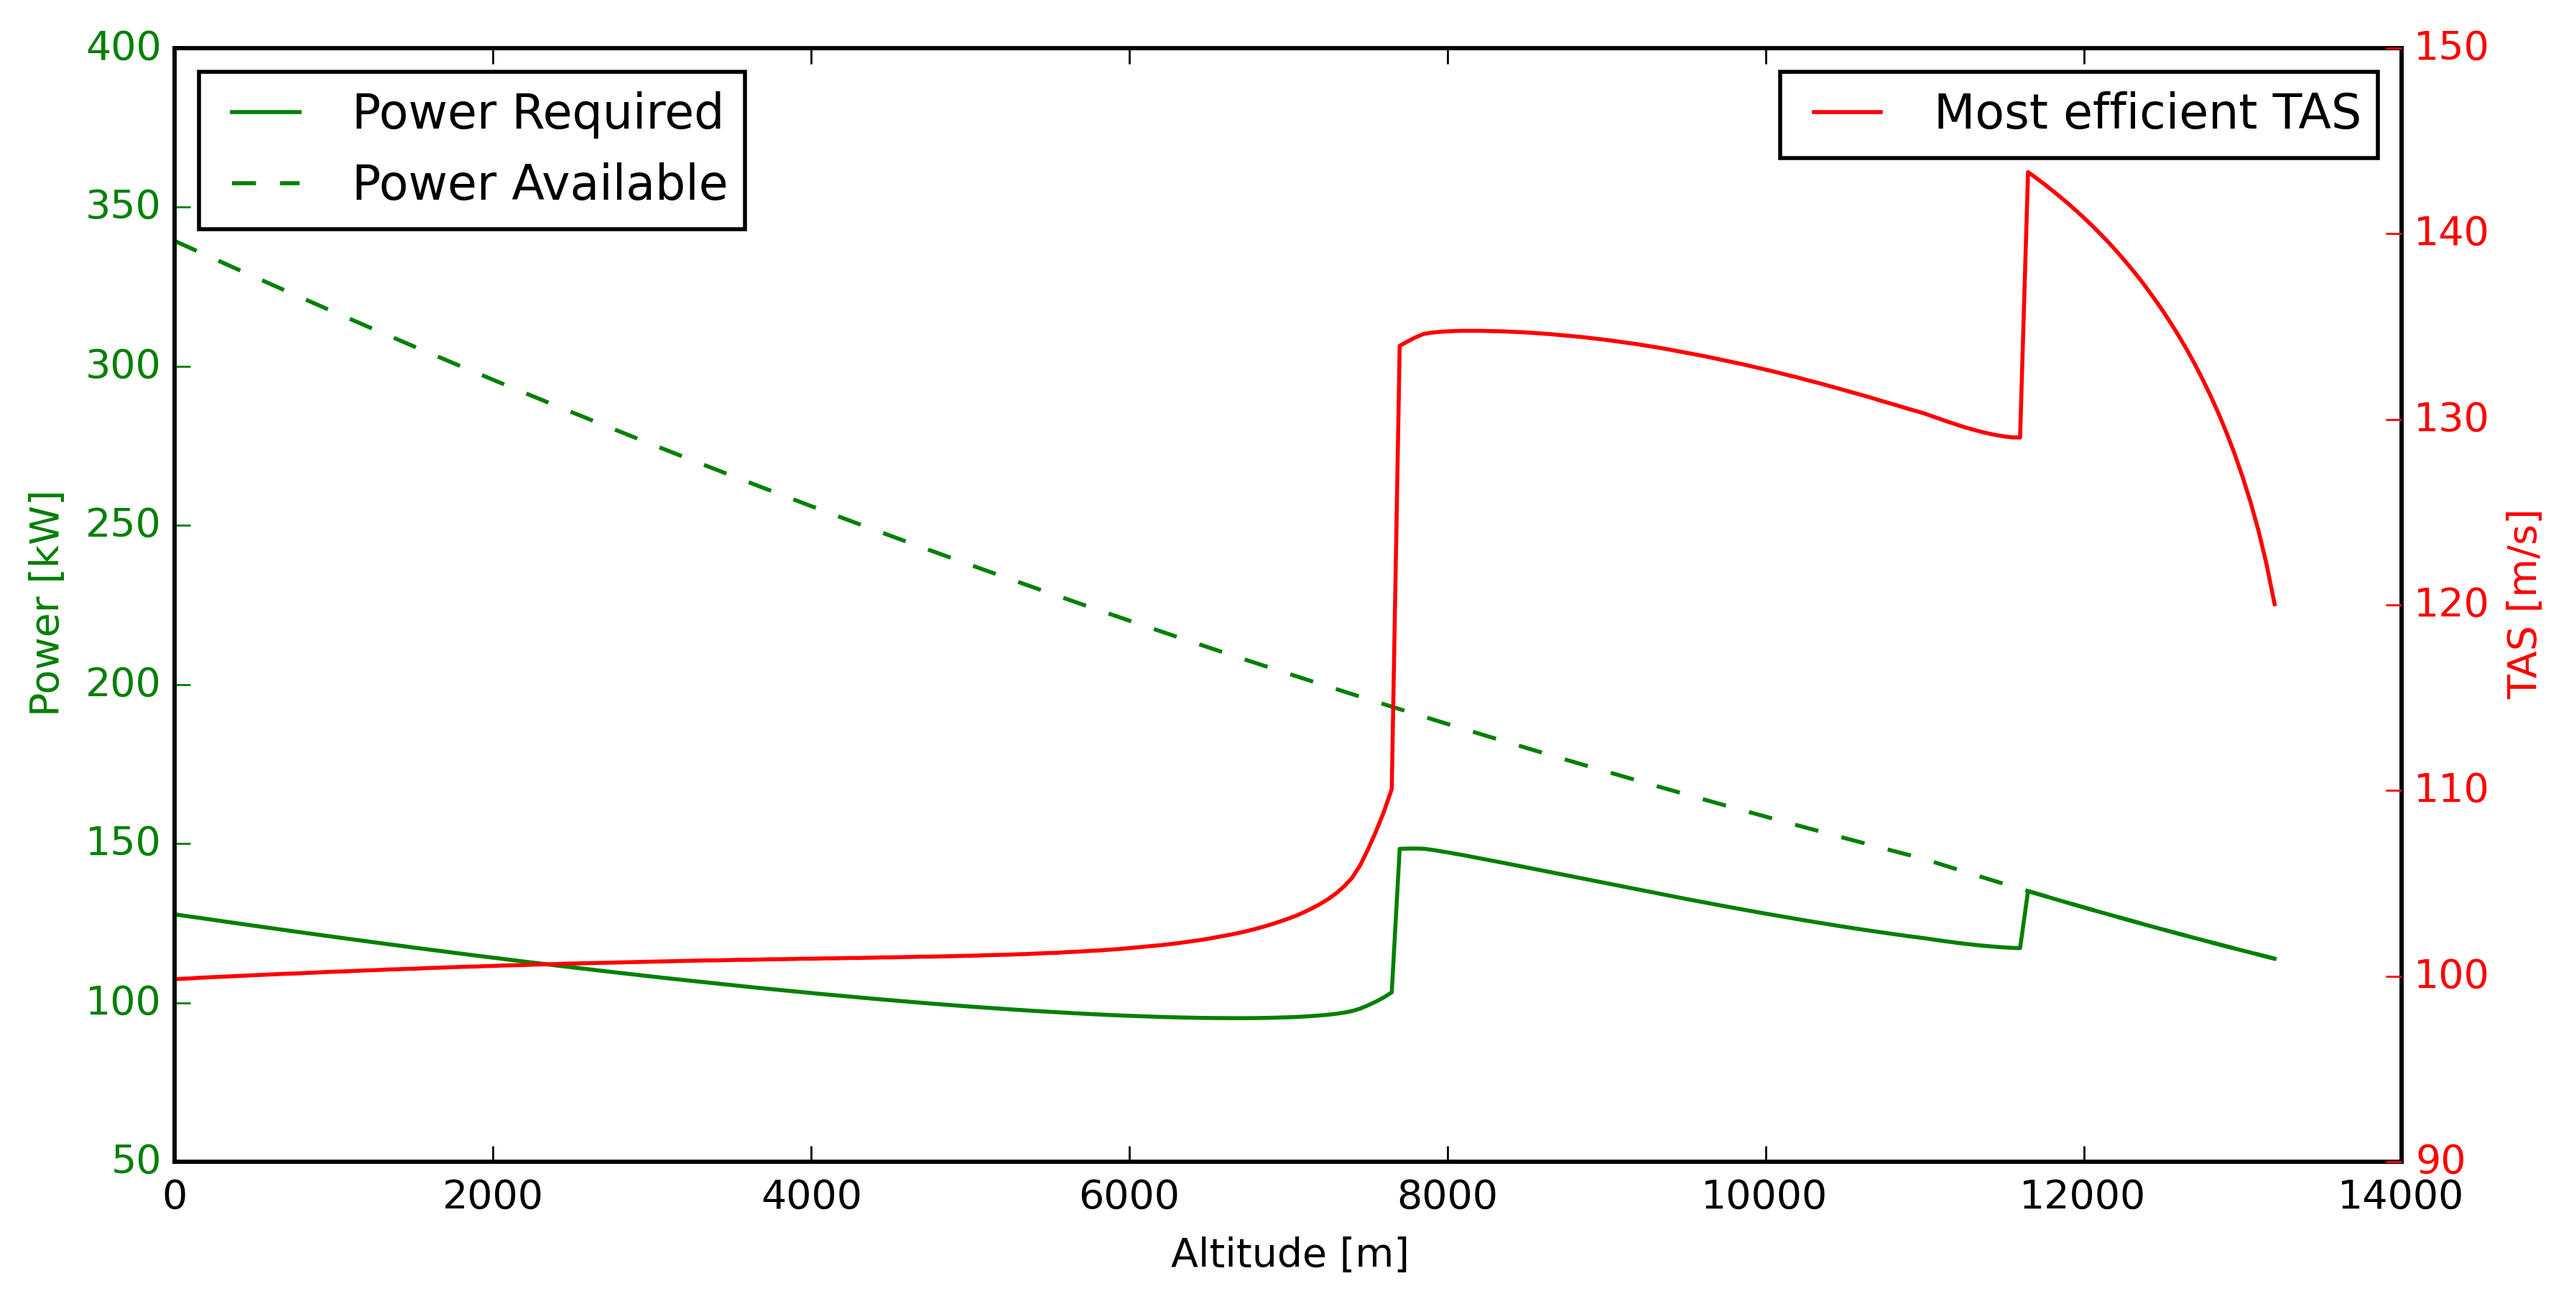
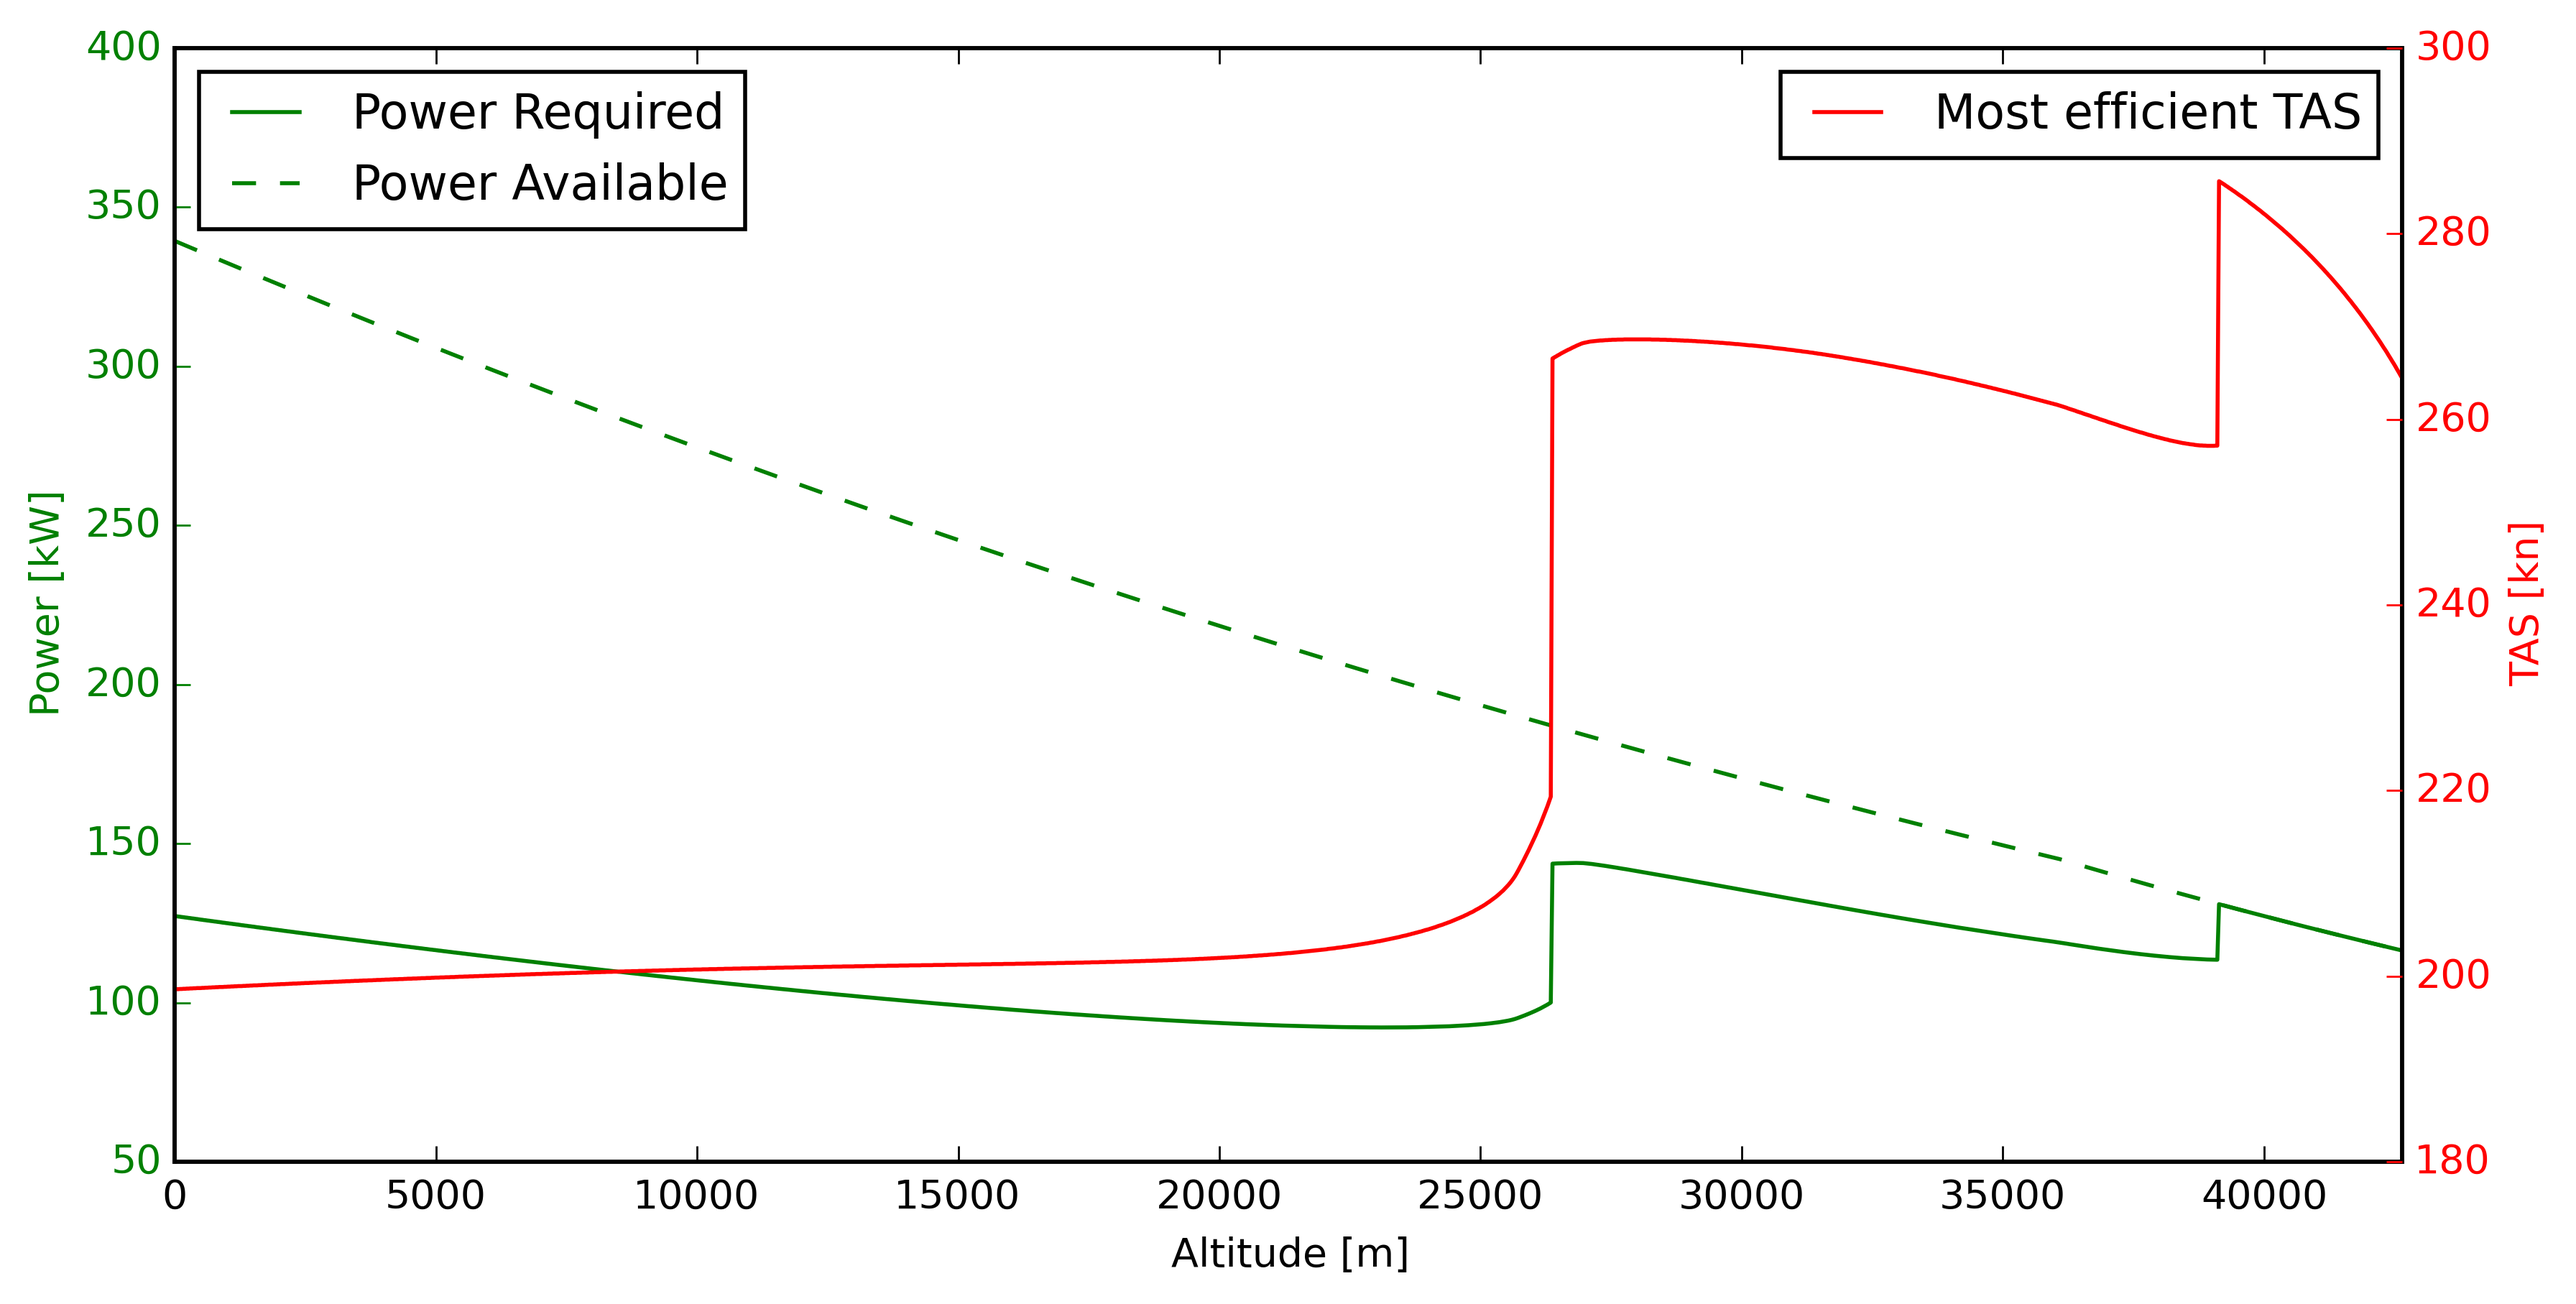
a

diff --git a/FPP/CruiseRange.py b/FPP/CruiseRange.py
@@ -62,9 +62,9 @@ h_cruise = 9000
 
 ###################################################################################################
 def calcPowerReq(W,V,S,h): # Calc Power Required [W] in steady cruise conditions for one or multiple TAS. Weight in Newton.
-    CD0 = 0.0115
+    CD0 = 0.011125
     A = 7.35
-    e = 0.6
+    e = 0.583
     rho = ISA.Dens(h)
     CL = W / (0.5*rho*V**2*S)
     CD = CD0 + CL**2 / (np.pi*A*e) # 0.020 + 0.05236 * (CL - 0.2)**2 #calcCD(CL,V) #########!!!!!!!! drag polar from aero
@@ -198,7 +198,7 @@ def calcPowerCruise(W_cruise,V_array,S,h_cruise): # Calc Power Required for most
     return PowerCruise_eff, V_Cruise_eff, LD_Cruise_eff, rho_Cruise, PowerAva, cp_Cruise_eff # have to include engine efficiency at different speeds !!!!!!!!!!!!
 
 
-#PowerReq, LD, rho_Cruise = calcPowerReq(W_cruise,V_array,S,6000)
+#PowerReq, LD, rho_Cruise = calcPowerReq(W_cruise,V_array,S,11800)
 #PowerAva = calcPowerAva(h_cruise,rho_Cruise)
 #where = np.where(PowerReq < PowerAva)
 #PowerReq = PowerReq[where]
@@ -213,7 +213,7 @@ def calcPowerCruise(W_cruise,V_array,S,h_cruise): # Calc Power Required for most
 #plt.plot(V_array,LD)
 #plt.show()
 #
-#plt.plot(V_array,cp)
+#plt.plot(V_array,1./cp)
 #plt.show()
 #
 #
@@ -251,12 +251,12 @@ def calcPowerCruise(W_cruise,V_array,S,h_cruise): # Calc Power Required for most
 
 
 def calcAltOpt(W_cruise,V_array,S):
-    h_max_an = 13200
+    h_max_an = 13000
     PowerCruise_alt = []
     V_Cruise_alt = []
     cp_Cruise_alt = []
     PowerAva_alt = []
-    h_acc = 50
+    h_acc = 10
     h_cruise = np.arange(0,h_max_an+h_acc,h_acc)
     for h in h_cruise:
         PowerCruise_eff, V_Cruise_eff, LD_Cruise_eff, rho_Cruise, PowerAva, cp_Cruise_eff = calcPowerCruise(W_cruise,V_array,S,h)
@@ -291,7 +291,7 @@ def calcAltOpt(W_cruise,V_array,S):
 #    PowerSetting = PowerCruise_alt[0:where] / PowerAva_alt[0:where]
 #    cp_func = calcCP()
 #    cp = cp_func(PowerSetting)
-    kilometrage = V_Cruise_alt / (PowerCruise_alt * cp_Cruise_alt) * 0.001
+    kilometrage = V_Cruise_alt / (PowerCruise_alt * cp_Cruise_alt / 0.82) * 0.001
     
 
 #    plt.plot(h_cruise,cp_Cruise_alt)
@@ -311,30 +311,32 @@ def calcAltOpt(W_cruise,V_array,S):
         os.makedirs(directory)
     #### Plot altitude vs power req ################
     fig, ax1 = plt.subplots(figsize=(10,5))
-    ax1.plot(h_cruise,PowerCruise_alt*0.001, color='green', label='Power Required')
-    ax1.plot(h_cruise,PowerAva_alt*0.001, color='green', linestyle='dashed', label='Power Available')
+    ax1.plot(h_cruise/0.3048,PowerCruise_alt*0.001, color='green', label='Power Required')
+    ax1.plot(h_cruise/0.3048,PowerAva_alt*0.001, color='green', linestyle='dashed', label='Power Available')
 #    ax1.plot(h_max,PowerCruise_alt[where]*0.001,color='black',marker='D',label='Maximum Altitude ('+str(h_max)+' m)')
-    ax1.set_xlabel('Altitude [m]')
+    ax1.set_xlabel('Altitude [ft]')
     ax1.set_ylabel('Power [kW]', color='g')
-#    ax1.set_xlim()
+    ax1.set_xlim(0,h_max_an/0.3048)
     ax1.set_ylim(50,400)
     ax1.tick_params('y', colors='g')
     plt.legend(loc=2)
     
     ax2 = ax1.twinx()
-    ax2.plot(h_cruise,V_Cruise_alt,color='red',label='Most efficient TAS')
-    ax2.set_ylabel('TAS [m/s]', color='r')
-#    ax2.set_xlim()
-#    ax2.set_ylim()
+    ax2.plot(h_cruise/0.3048,V_Cruise_alt*1.9438,color='red',label='Most efficient TAS')
+    ax2.set_ylabel('TAS [kn]', color='r')
+    ax2.set_xlim(0,h_max_an/0.3048)
+    ax2.set_ylim(180,300)
     ax2.tick_params('y', colors='r')
     plt.legend()
     plt.savefig(directory + '\AltMax.png', format='png', bbox_inches='tight', dpi=400)
     plt.show()
     #############################################
     #### Plot metrage vs alt ###########################################
-    plt.plot(h_cruise,kilometrage*0.804)
-    plt.xlabel('Altitude [m]')
+    plt.plot(h_cruise/0.3048,kilometrage*0.804)
+    plt.xlabel('Altitude [ft]')
     plt.ylabel('Fuel Efficiency [km/L]')
+    plt.xlim(0,h_max_an/0.3048)
+#    plt.ylim(4,9.5)
     plt.savefig(directory + '\Mileage.png', format='png', bbox_inches='tight', dpi=400)
     plt.show()
     return PowerCruise_alt, PowerAva_alt, kilometrage
@@ -436,7 +438,7 @@ def calcCruise(MTOW,OEW,Vfuelmax,PL,S,R_req,V_acc): # Payload [kg], speed analys
 #    OEW = 950 # [kg]
     Mfuelmax = Vfuelmax * 804 # Maximum fuel tank capacity [kg]
 #    S = 20 # Wing surface [m^2]
-    prop_eff = 0.9
+    prop_eff = 0.82
     cp = 1.04302E-7 # [kg/J] used for loiter phase only
     E = 45*60 # Required endurance / Loiter duration [s]
     h_cruise = 25000 * 0.3048 # Cruise altitude [m]
@@ -445,7 +447,7 @@ def calcCruise(MTOW,OEW,Vfuelmax,PL,S,R_req,V_acc): # Payload [kg], speed analys
     Mff_start = 0.965 # 0.990*0.995*0.995*0.985 # Fuel fraction from start to cruise altitude
     Mff_end = 0.98 # 0.985*0.995 # Fuel fraction from end loiter phase to end flight
     V_array = np.arange(10,160,V_acc) # Set range and accuracy of speed analysis [m/s] !!!!!!!
-    V_Cruise_spec = 123.47 # 92.6 # Specified cruise speed [m/s]
+    V_Cruise_spec = 128.6 # 92.6 # Specified cruise speed [m/s]
     
     W_loiter = ((OEW + PL) / Mff_end) * g * 1.005 # Weight at end of loiter phase [kg], multiplied by some factor
     PowerLoiter, V_Loiter, LD_Loiter = calcPowerLoiter(W_loiter,V_array,S,h_loiter)
@@ -485,7 +487,7 @@ def calcCruise(MTOW,OEW,Vfuelmax,PL,S,R_req,V_acc): # Payload [kg], speed analys
 #        PowerCruise, V_Cruise, LD_Cruise = calcPowerCruise(W,rho,V,S)
 #        R += (prop_eff * LD_Cruise / (g*cp) ) * np.log(M_cruise[i] / M_cruise[i+1])
     PowerLoiter, V_Loiter, LD_Loiter = calcPowerLoiter(W_cruise,V_array,S,h_cruise) # For plot
-    return R_eff, R_spec, R_Vmax, V_Cruise_eff, V_Cruise_spec, V_max, PowerReq, PowerAva, PowerCruise_spec, V_min, V_Loiter, V_array, MTOW_req, Fuel_req
+    return R_eff, R_spec, R_Vmax, V_Cruise_eff, V_Cruise_spec, V_max, PowerReq, PowerAva, PowerCruise_spec, V_min, V_Loiter, V_array, MTOW_req, Fuel_req, W_cruise
 
 ########################################################################################################
 
@@ -502,18 +504,20 @@ def CruisePlots(MTOW,OEW,Vfuelmax,S,V_acc):
         os.makedirs(directory)
     
     ###### Power required vs Power available graph ###
-    R_eff, R_spec, R_Vmax, V_Cruise_eff, V_Cruise_spec, V_max, PowerReq, PowerAva, PowerCruise_spec, V_min, V_Loiter, V_array, MTOW_req, Fuel_req = calcCruise(MTOW,OEW,Vfuelmax,444,S,R_req,V_acc)
+    R_eff, R_spec, R_Vmax, V_Cruise_eff, V_Cruise_spec, V_max, PowerReq, PowerAva, PowerCruise_spec, V_min, V_Loiter, V_array, MTOW_req, Fuel_req, W_cruise = calcCruise(MTOW,OEW,Vfuelmax,444,S,R_req,V_acc)
     plt.figure(figsize=(10,5))
-    plt.plot(V_array, PowerReq*0.001, label='Power Required')
-    plt.plot(V_array, PowerAva*0.001, linestyle='dashed', label='Power Available')
-    plt.plot(V_min, PowerReq[np.where(V_array == V_min)]*0.001, marker='v', label='V_min ('+str(round(V_min,1))+' m/s, '+str(int(round(PowerReq[np.where(V_array == V_min)]*0.001,0)))+' kW)' )
-    plt.plot(V_Loiter, PowerReq[np.where(V_array == V_Loiter)]*0.001, marker='D', label='Loiter ('+str(round(V_Loiter,1))+' m/s, '+str(int(round(PowerReq[np.where(V_array == V_Loiter)]*0.001,0)))+' kW)' )
-    plt.plot(V_Cruise_eff, PowerReq[np.where(V_array == V_Cruise_eff)]*0.001, marker='s', label='Cruise_eff ('+str(round(V_Cruise_eff,1))+' m/s, '+str(int(round(PowerReq[np.where(V_array == V_Cruise_eff)]*0.001,0)))+' kW)' )
-    plt.plot(V_Cruise_spec, PowerCruise_spec*0.001, marker='o', label='Cruise_spec ('+str(round(V_Cruise_spec,1))+' m/s, '+str(int(round(PowerCruise_spec*0.001,0)))+' kW)' )
-    plt.plot(V_max, PowerReq[np.where(V_array == V_max)]*0.001, marker='^', label='V_max ('+str(round(V_max,1))+' m/s, '+str(int(round(PowerReq[np.where(V_array == V_max)]*0.001,0)))+' kW)' )
-    plt.xlabel('TAS [m/s]')
+    plt.plot(V_array*1.9438, PowerReq*0.001, label='Power Required')
+    plt.plot(V_array*1.9438, PowerAva*0.001, linestyle='dashed', label='Power Available')
+    plt.plot(V_min*1.9438, PowerReq[np.where(V_array == V_min)]*0.001, marker='v', label='V_min ('+str(round(V_min*1.9438,1))+' kn, '+str(int(round(PowerReq[np.where(V_array == V_min)]*0.001,0)))+' kW)' )
+    plt.plot(V_Loiter*1.9438, PowerReq[np.where(V_array == V_Loiter)]*0.001, marker='D', label='Loiter ('+str(int(round(V_Loiter*1.9438,0)))+' kn, '+str(int(round(PowerReq[np.where(V_array == V_Loiter)]*0.001,0)))+' kW)' )
+    plt.plot(V_Cruise_eff*1.9438, PowerReq[np.where(V_array == V_Cruise_eff)]*0.001, marker='s', label='Cruise_eff ('+str(int(round(V_Cruise_eff*1.9438,0)))+' kn, '+str(int(round(PowerReq[np.where(V_array == V_Cruise_eff)]*0.001,0)))+' kW)' )
+    plt.plot(V_Cruise_spec*1.9438, PowerCruise_spec*0.001, marker='o', label='Cruise_spec ('+str(int(round(V_Cruise_spec*1.9438,0)))+' kn, '+str(int(round(PowerCruise_spec*0.001,0)))+' kW)' )
+    plt.plot(V_max*1.9438, PowerReq[np.where(V_array == V_max)]*0.001, marker='^', label='V_max ('+str(int(round(V_max*1.9438,0)))+' kn, '+str(int(round(PowerReq[np.where(V_array == V_max)]*0.001,0)))+' kW)' )
+    plt.xlabel('TAS [kn]')
     plt.ylabel('Power [kW]')
-    plt.legend(bbox_to_anchor=(1.5,1.0))
+    plt.xlim(0,310)
+    plt.ylim(0,300)
+    plt.legend(bbox_to_anchor=(1.45,1.0))
     plt.savefig(directory + '\PowerCurve.png', format='png', bbox_inches='tight', dpi=400)
     plt.show()
     ############################
@@ -541,7 +545,7 @@ def CruisePlots(MTOW,OEW,Vfuelmax,S,V_acc):
     plt.figure(figsize=(10,5))
     fig = plt.plot(Range,[444, 444, MTOW-OEW-Mfuelmax, 111, 0], linestyle='-', marker='o')
     plt.ylim((0, 500))
-    plt.legend(iter(fig), ('Range at Most Efficient Speed ('+str(int(round(Speed[0][0]*1.9438,0)))+' kt)', 'Range at Specified Speed ('+str(int(round(Speed[0][1]*1.9438,0)))+' kt)', 'Range at Maximum Speed ('+str(int(round(Speed[0][2]*1.9438,0)))+' kt)'), markerscale=0.8, loc=3)
+    plt.legend(iter(fig), ('Range at Most Efficient Speed ('+str(int(round(Speed[0][0]*1.9438,0)))+' kn)', 'Range at Specified Speed ('+str(int(round(Speed[0][1]*1.9438,0)))+' kn)', 'Range at Maximum Speed ('+str(int(round(Speed[0][2]*1.9438,0)))+' kn)'), markerscale=0.8, loc=3)
     plt.xlabel('Range [km]')
     plt.ylabel('Payload [kg]')
     plt.savefig(directory + '\PayloadRangeDiagram.png', format='png', bbox_inches='tight', dpi=400)
@@ -552,11 +556,11 @@ def CruisePlots(MTOW,OEW,Vfuelmax,S,V_acc):
     
 
 ####### RUN FUNCTIONS: ###########
-Range, Speed = CruisePlots(1724,1043,0.56,15.56,0.01)
-
-R_eff, R_spec, R_Vmax, V_Cruise_eff, V_Cruise_spec, V_max, PowerReq, PowerAva, PowerCruise_spec, V_min, V_Loiter, V_array, MTOW_req, Fuel_req = calcCruise(1724,1043,0.56,444,15.56,1400000,0.01)
+#Range, Speed = CruisePlots(1675.6,928.47,0.56,15.12,0.001)
 #
-#PowerCruise_alt, PowerAva_alt, kilometrage = calcAltOpt(1600*9.81,np.arange(50,150,0.01),15.56)
+#R_eff, R_spec, R_Vmax, V_Cruise_eff, V_Cruise_spec, V_max, PowerReq, PowerAva, PowerCruise_spec, V_min, V_Loiter, V_array, MTOW_req, Fuel_req, W_cruise = calcCruise(1675.6,928.47,0.56,444,15.12,1400000,0.001)
+###
+#PowerCruise_alt, PowerAva_alt, kilometrage = calcAltOpt(W_cruise,np.arange(50,150,0.01),15.12)
 ##############################
 
 

diff --git a/Stability_control/HorizontalTail.py b/Stability_control/HorizontalTail.py
@@ -61,15 +61,15 @@ def StabTailSizing(OEW,W_wing,c,x_ac,downwash,Cmac,CL_Ah_land,CL_alpha_Ah_land,C
     xcg_fuelMAC = 0.35 # xcg of fuel wrt MAC
 #    c = 1.568 # MAC
     
-    moment_Aw = xcg_OEW * OEW - xcg_wing * W_wing    
+    moment_Aw = xcg_OEW * (OEW-W_wing) # xcg_OEW * OEW - xcg_wing * W_wing    
     x_lemac_array = np.arange(1.5,3.0,x_lemac_acc) # Set range and accuracy of analysis !!!
     xcg_fuel_array = x_lemac_array + xcg_fuelMAC * c
     xcg_OEW_array = (moment_Aw + (x_lemac_array + xcg_wingMAC * c) * W_wing) / OEW    
     ###########################
     ##### Calc most forward and most aft xcg for different loading situations ###
-    xcg_cargo = 3.5 # [m]
-    xcg_pilot = 2.0
-    xcg_pax = 3.0
+    xcg_cargo = 4.05 # [m]
+    xcg_pilot = 2.65
+    xcg_pax = 3.55
 
     cargo = 100. # [kg]
     pilot = 86.
@@ -88,7 +88,7 @@ def StabTailSizing(OEW,W_wing,c,x_ac,downwash,Cmac,CL_Ah_land,CL_alpha_Ah_land,C
         mass_tot.append(mass_tot[-1] + mass[i])
         xcg_for_load.append(((moment / mass_tot[-1])-x_lemac_array) / c)
         
-    order_aft = [0,2,1,1,2,3] # Full loading. Passengers first   
+    order_aft = [0,1,2,2,1,3] # Full loading. Passengers first   
     xcg_aft_load = [(xcg_OEW_array - x_lemac_array) / c]
     mass_tot = [OEW]
     moment = xcg_OEW_array * OEW
@@ -204,11 +204,33 @@ def StabTailSizingPlots(OEW,W_wing,c,x_ac,downwash,Cmac,CL_Ah_land,CL_alpha_Ah_l
     return
 
 
+OEW = 928.47
+W_wing = 295.75
+c = 1.5578
+x_ac = 0.25
+downwash = 0.115
+Cmac = -0.125
+CL_Ah_land = 1.952
+CL_alpha_Ah_land = 3.60
+CL_h_land = -0.598
+CL_alpha_h_land = 2.713
+VhV2 = 1
+xcg_OEW = 2.51  # without wing
+xcg_wing = 2
+lh = 4.5
+x_lemac_acc = 0.001
+ShS_acc = 0.001
+
+
 
 #### RUN FUNCTIONS: ####
-#StabTailSizingPlots(1043,352,1.46,0.25,0.136,-0.124,2.1,3.59,-0.44,2.7,1,2.35,2.61,6.0,0.001,0.001)
+#StabTailSizingPlots(1043,352,1.46,0.25,0.136,-0.124,2.1,3.59,-0.44,2.7,1,2.66,2.61,6.0,0.001,0.001)
 ##
-x_lemac_array, xcg_for_load, xcg_aft_load, xcg_pil_load, mass_tot, mass_tot_pil, xcg_for, xcg_aft, xcg_control, xcg_stab, ShS_array, ShS_opt, x_lemac_opt, xcg_OEW_opt, xcg_for_opt, xcg_aft_opt, where_opt = StabTailSizing(1043,352,1.46,0.25,0.136,-0.124,2.1,3.59,-0.44,2.7,1,2.35,2.61,6.0,0.001,0.001)
+#x_lemac_array, xcg_for_load, xcg_aft_load, xcg_pil_load, mass_tot, mass_tot_pil, xcg_for, xcg_aft, xcg_control, xcg_stab, ShS_array, ShS_opt, x_lemac_opt, xcg_OEW_opt, xcg_for_opt, xcg_aft_opt, where_opt = StabTailSizing(1043,352,1.46,0.25,0.136,-0.124,2.1,3.59,-0.44,2.7,1,2.66,2.61,6.0,0.001,0.001)
+
+#StabTailSizingPlots(OEW,W_wing,c,x_ac,downwash,Cmac,CL_Ah_land,CL_alpha_Ah_land,CL_h_land,CL_alpha_h_land,VhV2,xcg_OEW,xcg_wing,lh, x_lemac_acc, ShS_acc)
+##
+#x_lemac_array, xcg_for_load, xcg_aft_load, xcg_pil_load, mass_tot, mass_tot_pil, xcg_for, xcg_aft, xcg_control, xcg_stab, ShS_array, ShS_opt, x_lemac_opt, xcg_OEW_opt, xcg_for_opt, xcg_aft_opt, where_opt = StabTailSizing(OEW,W_wing,c,x_ac,downwash,Cmac,CL_Ah_land,CL_alpha_Ah_land,CL_h_land,CL_alpha_h_land,VhV2,xcg_OEW,xcg_wing,lh, x_lemac_acc, ShS_acc)
 ############
 #OEW,W_wing,c,x_ac,downwash,Cmac,CL_Ah_land,CL_alpha_Ah_land,CL_h_land,CL_alpha_h_land,VhV2,xcg_OEW,xcg_wing,lh, x_lemac_acc, ShS_acc
 
